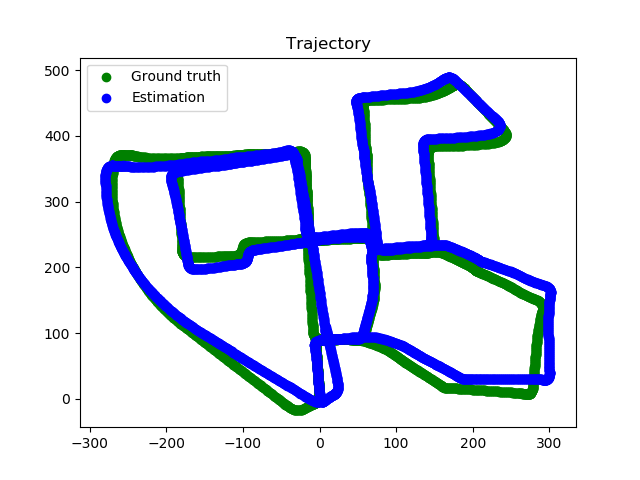
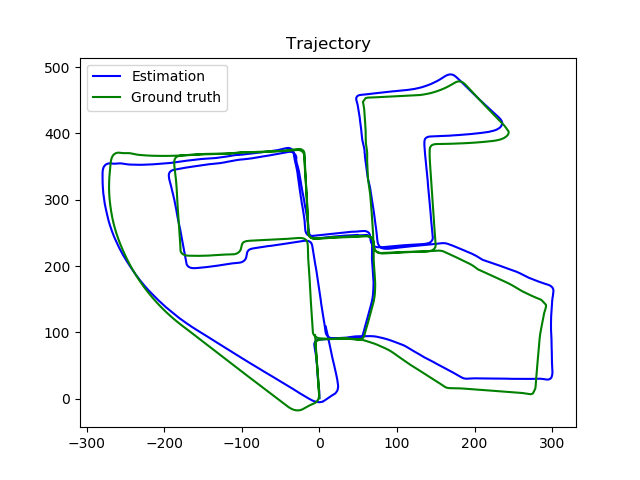
Upload correct trajectory image

diff --git a/slam.py b/slam.py
@@ -23,6 +23,7 @@ if __name__ == "__main__":
     
     # Prepare image for drawing trajectory
     voTruthPoints, voTrackPoints = [], []
+    plt.show()
 
     # Process next frames
     for frameIdx in range(1, datasetReader.getFramesCount()-1):
@@ -45,6 +46,14 @@ if __name__ == "__main__":
             voTruthPoints.append([truthT[0], truthT[2]])
             voTrackPoints.append([currT[0], currT[2]])
 
+            plt.cla()
+            plt.plot(np.array(voTrackPoints)[:,0], np.array(voTrackPoints)[:,1], c='blue', label="Estimation")
+            plt.plot(np.array(voTruthPoints)[:,0], np.array(voTruthPoints)[:,1], c='green', label="Ground truth")
+            plt.title("Trajectory")
+            plt.legend()
+            plt.draw()
+            plt.pause(0.01)
+
         drawFrameFeatures(currFrame, prevPts, currPts, frameIdx)
         if cv2.waitKey(1) == ord('q'):
             break
@@ -52,12 +61,6 @@ if __name__ == "__main__":
         prevFrame = currFrame
         prevPts = currPts
 
+    plt.savefig('trajectory.png')
+    cv2.waitKey(0)
     cv2.destroyAllWindows()
-
-    plt.title("Trajectory")
-    voTruthPoints = np.array(voTruthPoints)
-    voTrackPoints = np.array(voTrackPoints)
-    plt.scatter(voTruthPoints[:,0], voTruthPoints[:,1], c='green', label="Ground truth")
-    plt.scatter(voTrackPoints[:,0], voTrackPoints[:,1], c='blue', label="Estimation")
-    plt.legend()
-    plt.show()
